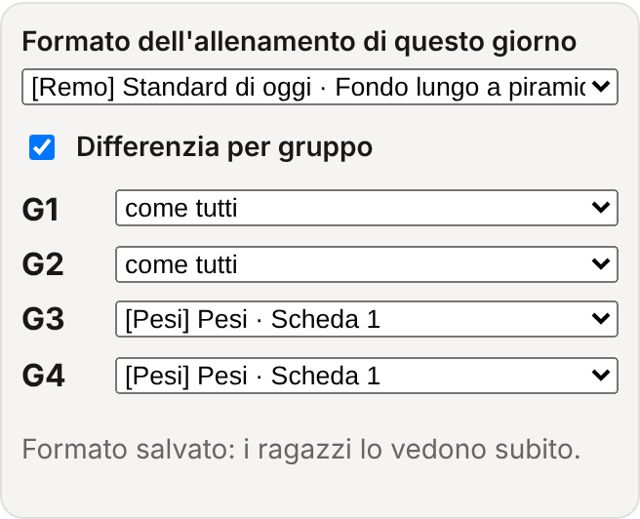
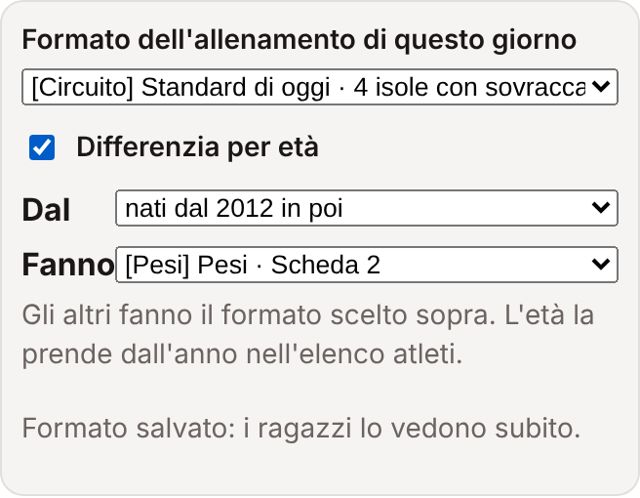
Formati differenziati per età (anno di nascita) invece che per gruppo; manuali aggiornati
Claude-Session: https://claude.ai/code/session_01LLjiZAqZgs98xeXXrVTLAP

diff --git a/index.html b/index.html
@@ -80,7 +80,7 @@ ol.seq li .d small{display:block;color:var(--muted);font-size:13px}
 ol.seq li.k-remo .d b{color:var(--remo)}
 ol.seq li.k-recupero .d b,ol.seq li.k-chiusura .d b{color:var(--muted);font-weight:500}
 ol.seq li.cur{background:var(--red-soft)}
-.fmtbox{border:1px solid var(--line);border-radius:12px;padding:10px;background:var(--bg)}.fmtchk{display:flex;align-items:center;gap:8px;margin-top:8px;font-weight:500;text-transform:none;letter-spacing:0}.fmtbox select{width:100%;min-width:0;max-width:100%}.fmtg{display:grid;grid-template-columns:40px minmax(0,1fr);align-items:center;gap:8px;margin-top:6px}
+.fmtbox{border:1px solid var(--line);border-radius:12px;padding:10px;background:var(--bg)}.fmtchk{display:flex;align-items:center;gap:8px;margin-top:8px;font-weight:500;text-transform:none;letter-spacing:0}.fmtbox select{width:100%;min-width:0;max-width:100%}.fmtg{display:grid;grid-template-columns:60px minmax(0,1fr);align-items:center;gap:8px;margin-top:6px}
 .pausa{display:flex;flex-wrap:wrap;align-items:baseline;gap:4px 10px;padding:10px 14px;border:1px dashed var(--muted);border-radius:14px;background:var(--bg);color:var(--muted);font-size:15px}
 .pausa b{color:var(--ink);font-weight:600}
 ol.seq li.past{opacity:.45}
@@ -376,7 +376,7 @@ const API_URL = "https://script.google.com/macros/s/AKfycbyA4VaS3jE8Rqo155aA_-ym
     <summary>Area allenatore · esercizi e impostazioni</summary>
     <p class="note">Scrivi l'impostazione Tabata del giorno (una per tutti) e per ogni isola scegli gli esercizi toccando le immagini. Con «Riga scritta» aggiungi un'indicazione libera. Poi premi Salva.</p>
     <div class="field fmtbox" id="fmtField" hidden><label for="fmtSel">Formato dell'allenamento di questo giorno</label><select id="fmtSel" class="pl"></select>
-      <label class="fmtchk"><input type="checkbox" id="fmtPer"> Differenzia per gruppo</label>
+      <label class="fmtchk"><input type="checkbox" id="fmtPer"> Differenzia per età</label>
       <div id="fmtGr" hidden></div><p class="note" id="fmtNote"></p></div>
     <div class="field" id="tabField"><label for="tabIn">Impostazione Tabata (per tutti)</label><input id="tabIn" class="pl" placeholder="es. 30&quot;/10&quot; × 6 · 2 giri"></div>
     <div id="editor"></div>
@@ -502,14 +502,17 @@ const API_URL = "https://script.google.com/macros/s/AKfycbyA4VaS3jE8Rqo155aA_-ym
       def:{S2:{esercizi:["Back squat · 4 × 12","Stacchi con quadbar · 4 × 12","Sottopanca · 4 × 12","Spinte su panca piana con bilanciere · 4 × 12","Pulley · 3 × 12","Affondi alternati con manubri · 3 × 20"],note:"Autoregolazione del carico: avvicinarsi al cedimento senza perdere la tecnica."}}}
   };
   const FDAYS=["lun","mer","ven"];
-  const fmtOf=(d,g)=>{ const v=fmtAct[d]; const id=(v&&typeof v==="object")?(v["G"+g]||v.tutti):v; return (FORMATS[id]&&id!==d)?id:d; };
+  const fmtEta=d=>{ const v=fmtAct[d]; return (v&&typeof v==="object"&&v.eta&&v.eta.dal&&v.eta.giovani)?v.eta:null; };
+  const isYoung=d=>{ const e=fmtEta(d), r=meRec(); return !!(e && r && +r.anno>=+e.dal); };
+  const fmtIds=d=>{ const v=fmtAct[d]; const t=(v&&typeof v==="object")?v.tutti:v; const e=fmtEta(d); return [t||d].concat(e?[e.giovani]:[]).map(id=>(FORMATS[id]&&id!==d)?id:d); };
+  const fmtOf=(d,g)=>{ const ids=fmtIds(d); return (isYoung(d)&&ids[1])?ids[1]:ids[0]; };
   const remoKey=(id,d)=>"R_"+id; // remo dei formati di un altro giorno: chiave propria
   function fdef(id,d){ const f=FORMATS[id]; if(!f||id===d) return BASE[d];
     if(f.base){ const b=BASE[f.base]; const rk=remoKey(f.base,d); const keys=b.keys.map(([k,l])=>k==="R"?[rk,l+" · "+f.nome]:[k,l]);
       return Object.assign({},BASE[d],{sub:b.sub,order:g=>b.order(g).map(st=>st.k==="R"?Object.assign({},st,{k:rk}):st),keys,pianta:f.base,cap:CAP[f.base],fmt:id}); }
     return Object.assign({},BASE[d],{sub:f.sub,order:f.order,keys:f.keys,pianta:f.pianta||null,cap:f.cap,fmt:id}); }
   const dayDef=(d,g)=>fdef(fmtOf(d,g),d);
-  function edKeysFor(d){ if(BASE[d].pesi) return BASE[d].keys; const seen=new Set(), out=[]; [1,2,3,4].forEach(g=>dayDef(d,g).keys.forEach(kl=>{ if(!seen.has(kl[0])){ seen.add(kl[0]); out.push(kl); } })); return out; }
+  function edKeysFor(d){ if(BASE[d].pesi) return BASE[d].keys; const seen=new Set(), out=[]; fmtIds(d).forEach(id=>fdef(id,d).keys.forEach(kl=>{ if(!seen.has(kl[0])){ seen.add(kl[0]); out.push(kl); } })); return out; }
   let fmtAct={};
   const wd=new Date().getDay();
   let day=store.get("mf_day")||({1:"lun",2:"mar",3:"mer",4:"gio",5:"ven",6:"sab"}[wd]||"lun");
@@ -536,7 +539,7 @@ const API_URL = "https://script.google.com/macros/s/AKfycbyA4VaS3jE8Rqo155aA_-ym
   function renderPickers(){
     const R=meRec(); $("days").innerHTML=Object.entries(DAYS).map(([k,d])=>`<button type="button" data-d="${k}" class="${offFor(R,k)?"off":""}" aria-pressed="${k===day}" ${offFor(R,k)?'title="Questa seduta non è nel tuo programma"':""}>${d.corto}</button>`).join("");
     $("groups").innerHTML=[1,2,3,4].map(g=>`<button type="button" class="chip" data-g="${g}" aria-pressed="${g===group}">G${g}</button>`).join("");
-    const DD=dayDef(day,group||1); $("dayTitle").textContent=DAYS[day].nome; $("daySub").textContent=(DD.fmt?"["+FORMATS[DD.fmt].tag+"] "+FORMATS[DD.fmt].nome+" · ":"")+DD.sub; const P=!DAYS[day].pesi; document.querySelectorAll("#pianta,.isl").forEach(e=>e.style.display=P?"":"none"); $("groups").style.display=P?"":"none"; if($("groups").previousElementSibling) $("groups").previousElementSibling.style.display=P?"":"none"; const pk=DD.pianta===null?null:(DD.pianta||day); $("piantaSvg").innerHTML=pk?(PIANTE[pk]||""):""; $("pianta").hidden=!pk; $("piantaCap").textContent=DD.cap||CAP[day]||""; renderFmt();
+    const DD=dayDef(day,group||1); $("dayTitle").textContent=DAYS[day].nome; $("daySub").textContent=(DD.fmt?"["+FORMATS[DD.fmt].tag+"] "+FORMATS[DD.fmt].nome+" · ":"")+DD.sub; { const e=fmtEta(day), ids=fmtIds(day); if(e&&ids[1]){ const y=FORMATS[ids[1]]; $("daySub").textContent+=(isYoung(day)||!coach)?"":" · Nati dal "+e.dal+": ["+y.tag+"] "+(ids[1]===day?"Standard di oggi":y.nome); if(isYoung(day)) $("daySub").textContent="Per i nati dal "+e.dal+" · "+$("daySub").textContent; } } const P=!DAYS[day].pesi; document.querySelectorAll("#pianta,.isl").forEach(e=>e.style.display=P?"":"none"); $("groups").style.display=P?"":"none"; if($("groups").previousElementSibling) $("groups").previousElementSibling.style.display=P?"":"none"; const pk=DD.pianta===null?null:(DD.pianta||day); $("piantaSvg").innerHTML=pk?(PIANTE[pk]||""):""; $("pianta").hidden=!pk; $("piantaCap").textContent=DD.cap||CAP[day]||""; renderFmt();
   }
   function extraCard(){ if(!extra) return null; const c=document.createElement("article"); c.className="card extra";
     const tg=document.createElement("span"); tg.className="tag extra"; tg.textContent="In aggiunta"; c.appendChild(tg);
@@ -551,9 +554,10 @@ const API_URL = "https://script.google.com/macros/s/AKfycbyA4VaS3jE8Rqo155aA_-ym
     $("tabata").hidden=!tabata||!!DAYS[day].pesi||offFor(meRec(),day); $("tabataTxt").textContent=tabata;
     if(offFor(meRec(),day)){ L.innerHTML=`<div class="card off"><h2>Oggi per te niente seduta</h2><p>Per ora fai 4 sedute: lunedì, mercoledì, venerdì e sabato.</p></div>`; return; }
     if(DAYS[day].pesi){ const v=norm(data["P"]); const card=document.createElement("article"); card.className="card pesi"; const h=document.createElement("h2"); h.textContent="Pesi con il personal trainer"; card.appendChild(h); const sb=document.createElement("div"); sb.className="sub"; sb.textContent="Altra palestra · il programma lo dà il personal trainer"; card.appendChild(sb); if(v.note){const n=document.createElement("p"); n.className="note"; n.textContent=v.note; card.appendChild(n);} const ex=(v.esercizi||[]).filter(Boolean); if(ex.length){ const ol=document.createElement("ol"); ol.className="exs"; ex.forEach(x=>ol.appendChild(exLi(x))); card.appendChild(ol);} L.appendChild(card); return; }
-    if(!group){ L.innerHTML=`<div class="card"><h2>Scegli il tuo gruppo</h2><p class="note">Vedrai le isole nell'ordine del tuo gruppo, con gli esercizi e le impostazioni dell'app Tabata. Il telefono ricorda la scelta.</p></div>`; const xc=extraCard(); if(xc) L.appendChild(xc); return; }
+    const noG=(FORMATS[fmtOf(day,1)]||{}).tag==="Pesi" && fmtOf(day,1)!==day;
+    if(!group && !noG){ L.innerHTML=`<div class="card"><h2>Scegli il tuo gruppo</h2><p class="note">Vedrai le isole nell'ordine del tuo gruppo, con gli esercizi e le impostazioni dell'app Tabata. Il telefono ricorda la scelta.</p></div>`; const xc=isYoung(day)?null:extraCard(); if(xc) L.appendChild(xc); return; }
     let num=0;
-    dayDef(day,group).order(group).forEach(st=>{
+    dayDef(day,group||1).order(group||1).forEach(st=>{
       if(st.k==="REC"||st.k==="DEF"){ const pc=document.createElement("div"); pc.className="pausa";
         const b=document.createElement("b"); b.textContent=st.t; pc.appendChild(b);
         const sm=document.createElement("span"); sm.textContent=[st.w,st.m?"min "+st.m:""].filter(Boolean).join(" · "); pc.appendChild(sm);
@@ -570,7 +574,7 @@ const API_URL = "https://script.google.com/macros/s/AKfycbyA4VaS3jE8Rqo155aA_-ym
       if(!ex.length && !v.note && !gn){ const n=document.createElement("p"); n.className="note"; n.textContent=isR?"Indicazioni per il remo non ancora inserite.":"L'allenatore non ha ancora inserito gli esercizi per questa isola."; card.appendChild(n); }
       L.appendChild(card);
     });
-    const xc=extraCard(); if(xc) L.appendChild(xc);
+    const xc=isYoung(day)?null:extraCard(); if(xc) L.appendChild(xc);
   }
 
   // ---------- Libreria esercizi ----------
@@ -737,17 +741,20 @@ const API_URL = "https://script.google.com/macros/s/AKfycbyA4VaS3jE8Rqo155aA_-ym
     return (withSame?`<option value="">come tutti</option>`:"")+tags.map(t=>`<optgroup label="${t}">`+Object.entries(FORMATS).filter(([k,f])=>f.tag===t).map(([k,f])=>`<option value="${k}"${k===sel?" selected":""}>[${t}] ${k===day?"Standard di oggi · ":""}${f.nome}</option>`).join("")+`</optgroup>`).join(""); }
   function renderFmt(){
     const F=$("fmtField"); if(!F) return; F.hidden=!coach||!FDAYS.includes(day); if(F.hidden) return;
-    const v=fmtAct[day], obj=(v&&typeof v==="object"); const tutti=(obj?v.tutti:v)||day;
-    $("fmtSel").innerHTML=fmtOptions(FORMATS[tutti]?tutti:day,false); $("fmtPer").checked=!!obj && [1,2,3,4].some(g=>v["G"+g]);
-    const G=$("fmtGr"); G.hidden=!$("fmtPer").checked; G.innerHTML=[1,2,3,4].map(g=>`<div class="fmtg"><b>G${g}</b><select class="pl" data-g="${g}">${fmtOptions(obj?(v["G"+g]||""):"",true)}</select></div>`).join("");
-    $("fmtNote").textContent="Scegli dal repository un formato al posto di quello fisso, per tutti o per singoli gruppi. Con gruppi su formati diversi controlla che non si trovino sulle stesse isole nello stesso momento.";
+    const v=fmtAct[day], obj=(v&&typeof v==="object"); const tutti=(obj?v.tutti:v)||day; const e=fmtEta(day);
+    $("fmtSel").innerHTML=fmtOptions(FORMATS[tutti]?tutti:day,false); $("fmtPer").checked=!!e || (obj&&!!v.etaOn);
+    const G=$("fmtGr"); G.hidden=!$("fmtPer").checked; const dal=(e&&e.dal)||(obj&&v.eta&&v.eta.dal)||2011;
+    const anni=[2006,2007,2008,2009,2010,2011,2012,2013,2014];
+    G.innerHTML=`<div class="fmtg"><b>Dal</b><select class="pl" id="fmtDal">${anni.map(a=>`<option value="${a}"${a==dal?" selected":""}>nati dal ${a} in poi</option>`).join("")}</select></div>
+      <div class="fmtg"><b>Fanno</b><select class="pl" id="fmtYoung">${fmtOptions((e&&e.giovani)||"",true).replace("come tutti","scegli il formato…")}</select></div>
+      <p class="note" style="margin:6px 0 0">Gli altri fanno il formato scelto sopra. L'età la prende dall'anno nell'elenco atleti.</p>`;
+    $("fmtNote").textContent="Scegli dal repository un formato al posto di quello fisso, per tutti o diverso per età. Se due formati usano le stesse isole nello stesso momento, controlla gli spazi.";
   }
-  async function saveFmt(){ const d=day, per=$("fmtPer").checked, tutti=$("fmtSel").value; let val=tutti;
-    if(per){ val={tutti}; $("fmtGr").querySelectorAll("select").forEach(x=>{ val["G"+x.dataset.g]=x.value||""; }); }
+  async function saveFmt(){ const d=day, tutti=$("fmtSel").value; let val=tutti;
+    if($("fmtPer").checked){ const dal=$("fmtDal")?+$("fmtDal").value:2011, gio=$("fmtYoung")?$("fmtYoung").value:""; val={tutti,etaOn:true,eta:{dal,giovani:gio||""}}; }
     fmtAct[d]=val; renderPickers(); renderList(); edDirty=false; renderEditor();
     try{ await db.doc("config/formati").update({[d]:val});
-      // contenuti predefiniti per le isole dei formati attivati, solo se vuote
-      const ids=new Set([1,2,3,4].map(g=>fmtOf(d,g))); const add={};
+      const ids=new Set(fmtIds(d)); const add={};
       const empty=k=>{ const x=norm(data[k]); return !(x.esercizi||[]).filter(Boolean).length && !x.note; };
       for(const id of ids){ if(id===d) continue; const f=FORMATS[id];
         if(f.def) Object.entries(f.def).forEach(([k,c])=>{ if(empty(k)) add[k]={esercizi:c.esercizi,note:c.note||"",gruppi:{}}; });
@@ -757,7 +764,7 @@ const API_URL = "https://script.google.com/macros/s/AKfycbyA4VaS3jE8Rqo155aA_-ym
       $("fmtNote").textContent="Formato salvato: i ragazzi lo vedono subito."; }
     catch(e){ $("fmtNote").textContent="Non salvato: controlla la connessione."; } }
   $("fmtSel").addEventListener("change",saveFmt);
-  $("fmtPer").addEventListener("change",()=>{ $("fmtGr").hidden=!$("fmtPer").checked; if(!$("fmtPer").checked) saveFmt(); });
+  $("fmtPer").addEventListener("change",()=>{ $("fmtGr").hidden=!$("fmtPer").checked; saveFmt(); });
   $("fmtGr").addEventListener("change",saveFmt);
   function subscribe(){
     if(unsub){unsub();unsub=null;} data={}; tabata=""; extra=null; if(!db) return;

diff --git a/manuale-allenatore.html b/manuale-allenatore.html
@@ -70,7 +70,8 @@ footer{margin-top:36px;color:var(--muted);font-size:14px;text-align:center}
   <li><b>[Circuito]</b> 4 isole con sovraccarico (mercoledì)</li>
   <li><b>[Pesi]</b> Scheda 1 · Scheda 2: corsa 15', attivazione 10', scheda, defaticamento 10', tutti in sala pesi</li></ul>
   <p>Il formato vale subito, senza Salva. Cambia la sequenza dei gruppi, i minuti, la pianta e il testo del remo o della scheda pesi; gli esercizi dei circuiti A e B restano. Il testo predefinito viene inserito solo se quell'isola è vuota. Per tornare al programma scegli <b>Standard di oggi</b>.</p>
-  <p><b>Differenzia per gruppo:</b> spunta la casella e scegli un formato per G1, G2, G3, G4 («come tutti» segue quello generale). L'app non controlla gli spazi: con formati diversi verifica che due gruppi non siano sugli stessi remoergometri nello stesso momento. Il caso più semplice: un formato per G1 e G3 e un altro per G2 e G4, oppure i pesi per alcuni gruppi.</p>
+  <p><b>Differenzia per età:</b> spunta la casella, scegli da quale anno di nascita («nati dal 2012 in poi») e il formato che fanno loro; tutti gli altri fanno il formato scelto sopra. L'app prende l'anno dall'elenco atleti, quindi ognuno vede da solo il suo allenamento. Esempio: il mercoledì i più grandi alle isole, i nati dal 2012 in sala pesi con la Scheda 2.</p>
+  <p>L'app non controlla gli spazi: se i due formati usano le stesse isole nello stesso momento, organizza tu i turni. Con i pesi non ci sono problemi, perché la sala pesi è separata. L'allenamento «in aggiunta» del giorno lo vedono solo quelli che fanno il formato principale.</p>
 </div><div class="shots"><img src="tutorial/c14_formato.jpg" alt=""></div></div>
 
 <div class="step"><div>

diff --git a/tutorial.html b/tutorial.html
@@ -78,7 +78,7 @@ footer{margin-top:36px;color:var(--muted);font-size:14px;text-align:center}
   <h3>Scegli il giorno e il tuo gruppo</h3>
   <p>In alto tocca il <b>giorno</b> (di solito è già quello di oggi) e il tuo <b>gruppo</b>, da G1 a G4. Il telefono si ricorda il gruppo.</p>
   <p>Se fai <b>4 sedute</b> a settimana, martedì e giovedì per te sono in grigio: niente seduta.</p>
-  <p>Sotto il nome del giorno c'è la descrizione della seduta. Se l'allenatore ha scelto un allenamento diverso dal solito, all'inizio vedi un'etichetta: <b>[Remo]</b>, <b>[Circuito]</b> o <b>[Pesi]</b>. Può essere diverso anche solo per il tuo gruppo.</p>
+  <p>Sotto il nome del giorno c'è la descrizione della seduta. Se l'allenatore ha scelto un allenamento diverso dal solito, all'inizio vedi un'etichetta: <b>[Remo]</b>, <b>[Circuito]</b> o <b>[Pesi]</b>. Può essere diverso anche solo per la tua età: l'app lo sa dal tuo anno di nascita.</p>
 </div><div class="shots"><img src="tutorial/a2_giorno_gruppo.jpg" alt="Scelta del giorno e del gruppo"></div></div>
 
 <div class="step"><div>
